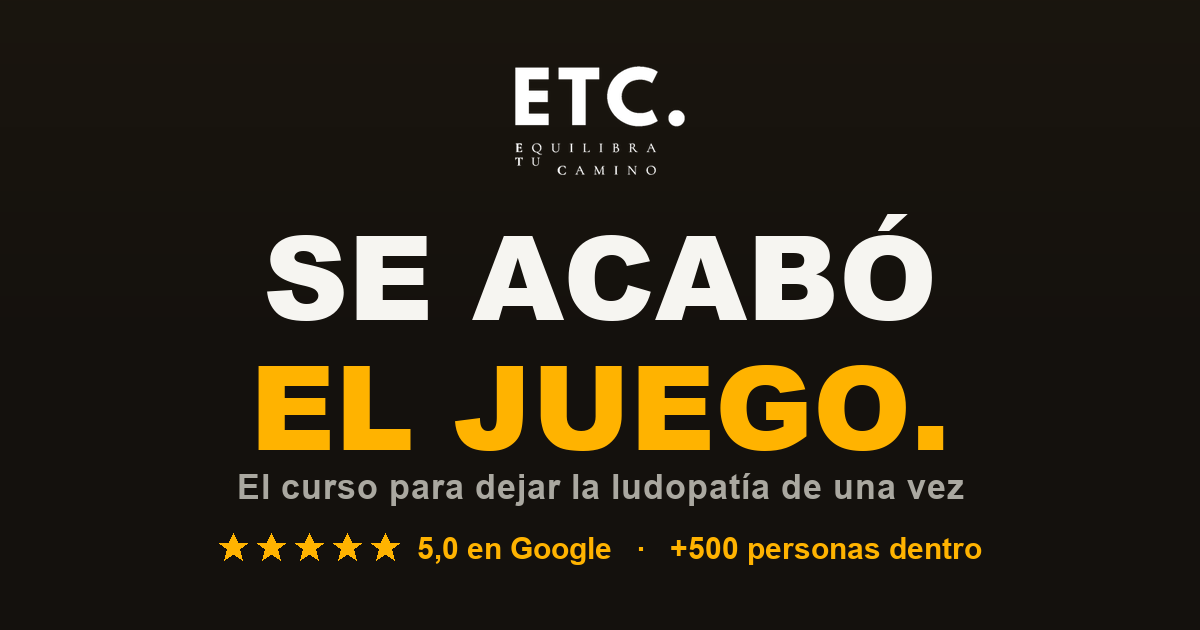
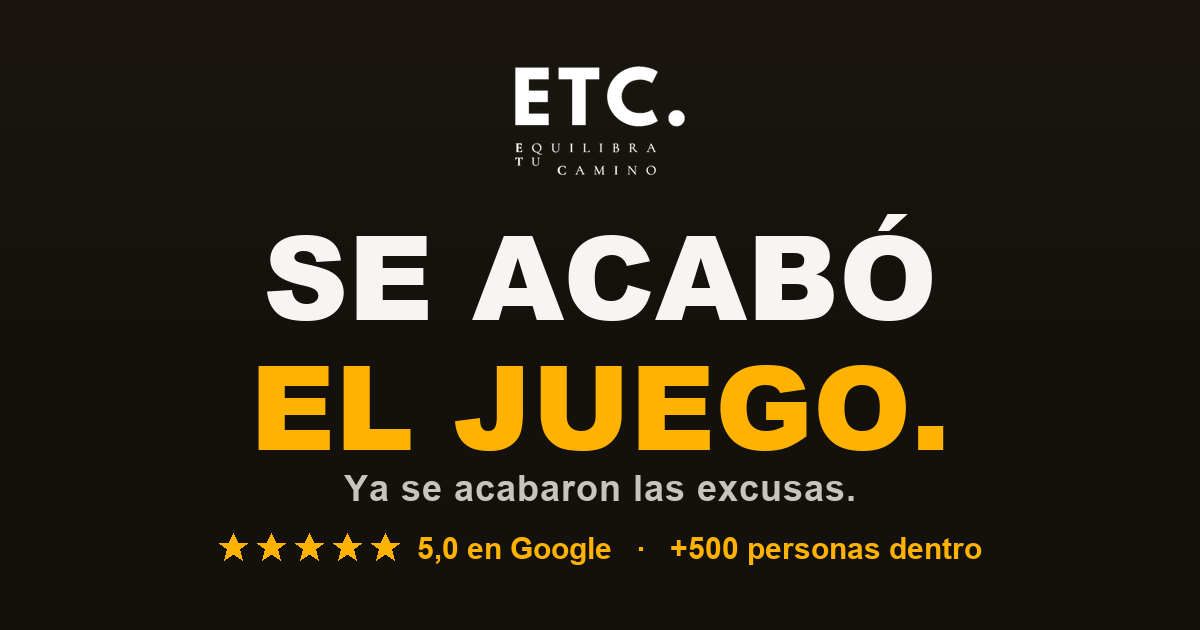
Tarjeta OG/WhatsApp: cambiar 'el curso para dejar la ludopatia' por 'Ya se acabaron las excusas' (imagen + og:title/twitter:title); SEO keyword se mantiene en el <title>

Changed region(s): [[0.185, 0.754, 0.8017, 0.8143]]

diff --git a/index.html b/index.html
@@ -10,14 +10,14 @@
   <meta name="description" content="15 clases creadas por exludópatas para dejar de jugar y no recaer. Método probado por +500 personas. Acceso de por vida, certificado y sesión 1:1 con Nacho.">
   <meta property="og:type" content="website">
   <meta property="og:site_name" content="ETC. Equilibra Tu Camino">
-  <meta property="og:title" content="Se Acabó el Juego — El curso para dejar la ludopatía">
+  <meta property="og:title" content="Se Acabó el Juego — Ya se acabaron las excusas">
   <meta property="og:description" content="15 clases para salir del juego de verdad. +500 personas · 5,0★ en Google.">
   <meta property="og:image" content="https://curso.equilibratucamino.com/images/og-curso.png">
   <meta property="og:image:width" content="1200">
   <meta property="og:image:height" content="630">
   <meta property="og:url" content="https://curso.equilibratucamino.com/">
   <meta name="twitter:card" content="summary_large_image">
-  <meta name="twitter:title" content="Se Acabó el Juego — El curso para dejar la ludopatía">
+  <meta name="twitter:title" content="Se Acabó el Juego — Ya se acabaron las excusas">
   <meta name="twitter:description" content="15 clases para salir del juego de verdad. +500 personas · 5,0★ en Google.">
   <meta name="twitter:image" content="https://curso.equilibratucamino.com/images/og-curso.png">
   <link rel="preconnect" href="https://fonts.googleapis.com">